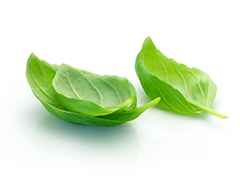
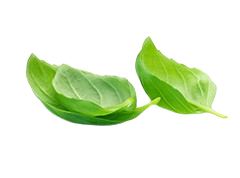
Added a abosulute image

diff --git a/src/components/frontend/ui/CategorySection.jsx b/src/components/frontend/ui/CategorySection.jsx
@@ -71,17 +71,10 @@ const CategoriesSection = () => {
         </motion.div>
       ))}
     </div>
-
-    {/* <div className="absolute bottom-0 right-0 w-full h-full ">
-  <Image 
-    src={AbsoluteImage}
-    alt="Category background"
-    width={100} 
-    height={100} 
-    className="object-cover"
-  />
-</div> */}
-
+       {/* Absolute Positioned Image */}
+       <div className="absolute bottom-[-105px] right-[-18px] p-4">
+        <Image src={AbsoluteImage} alt="Category Image" width={150} height={150} />
+      </div>
 
   </div>
   );

diff --git a/src/components/frontend/ui/ProductForSale.jsx b/src/components/frontend/ui/ProductForSale.jsx
@@ -131,6 +131,8 @@ const ProductCard = () => {
         </motion.div>
       ))}
     </div>
+
+    
     </div>
       
 
